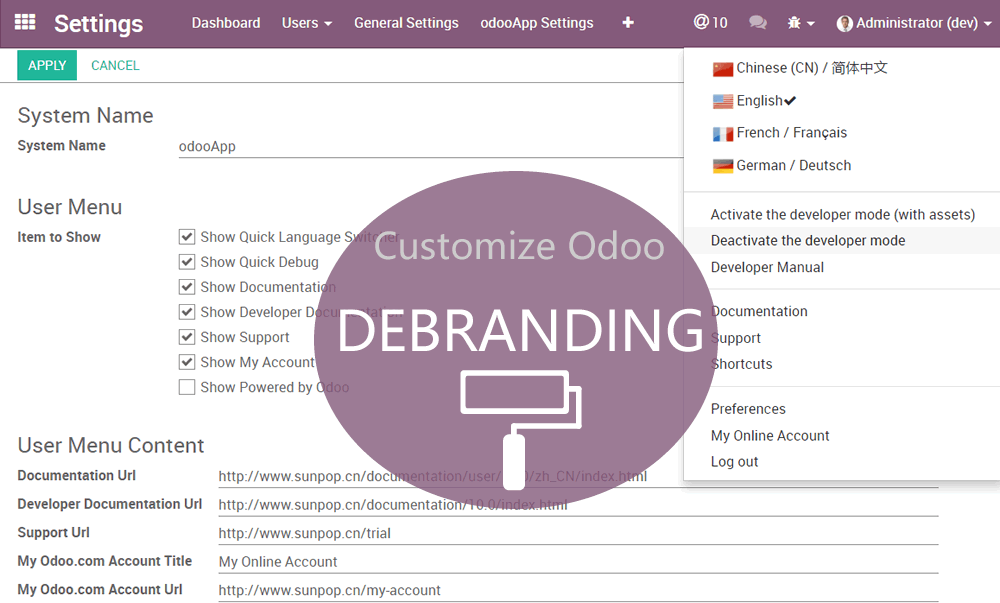
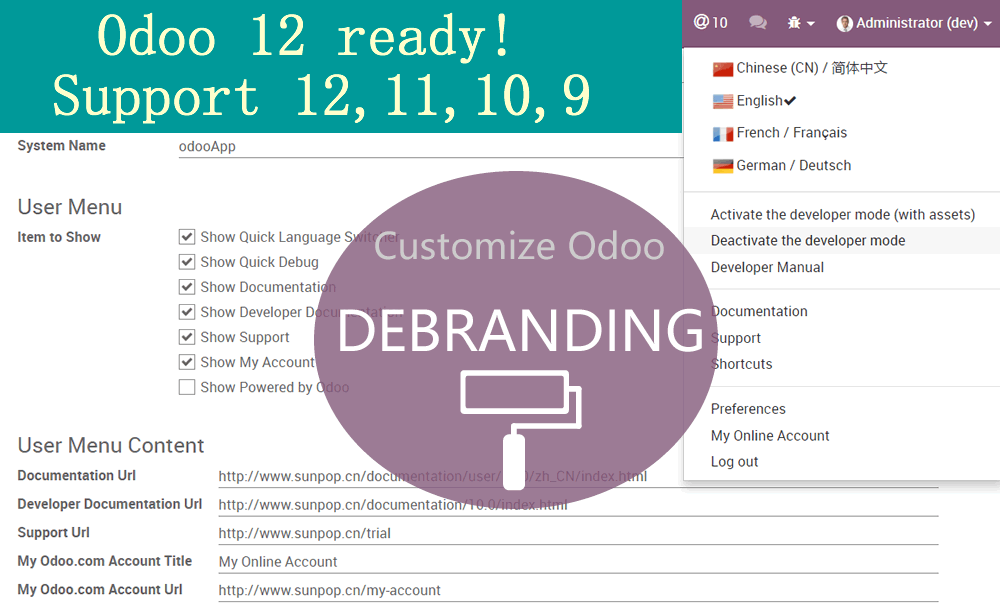
update desc

Changed region(s): [[0.0, 0.0, 0.682, 0.2388]]

diff --git a/app_odoo_customize/static/description/index.html b/app_odoo_customize/static/description/index.html
@@ -1,11 +1,13 @@
 <section class="oe_container">
     <div class="oe_row oe_spaced" style="max-width: 95%;">
         <div class="oe_span12">
-            <h2 class="oe_slogan">App Odoo Customize</h2>
+            <h2 class="oe_slogan">12 Ready!! App Odoo Customize</h2>
             <div class="oe_demo" style=" margin: 30px auto 0; padding: 0 15px 0 0; border:none; width: 96%;">
                 <p>This moduld allows user to quickly customize and debranding Odoo. Quick debug, Language Switcher,
                     Online Documentation Access,Quick Data Clear. </p>
-                <h3>Lastest update: v11.0.7.23</h3>
+                <h3>Update: v11.0.9.25</h3>
+                <p>Now ready for odoo 12, please email to me. guohuadeng@hotmail.com</p>
+                <h3>Update: v11.0.7.23</h3>
                 <p>Fix Login bug when install website.</p>
                 <p>Add 19. One Click to clear all data (Sometime pls click twice)</p>
                 <p>Add 18. Show/Hide Author and Website in Apps Dashboard</p>

diff --git a/app_odoo_customize/__manifest__.py b/app_odoo_customize/__manifest__.py
@@ -15,8 +15,8 @@
 # http://www.sunpop.cn/odoo10_developer_document_offline/
 # description:
 {
-    'name': 'App Odoo Customize(Backend Debranding Title,Language,Documentation,Quick Debug,Clear Data)',
-    'version': '11.0.9.12',
+    'name': '12 Ready!! App Odoo Customize(Backend Debranding Title,Language,Documentation,Quick Debug,Clear Data)',
+    'version': '11.0.9.25',
     'author': 'Sunpop.cn',
     'category': 'Productivity',
     'website': 'http://www.sunpop.cn',
@@ -27,11 +27,11 @@
     Quick customize and debranding your own Odoo. Quick debug, Language Switcher, Online Documentation Access,Delete test data.
     """,
     'description': """
-
 App Odoo Customize(Debranding Title,Language,Documentation,Quick Debug)
 ============
 White label odoo.
 Support Odoo 11, 10, 9.
+Now ready for 12, please email to me. guohuadeng@hotmail.com
 You can config odoo, make it look like your own platform.
 1. Deletes Odoo label in footer
 2. Replaces "Odoo" in Windows title
